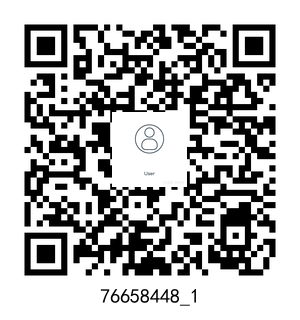
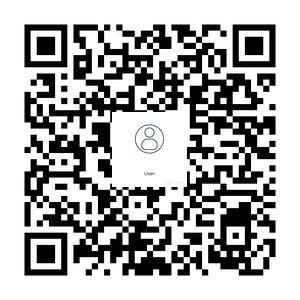
优化生成二维码方法

diff --git a/qrCodeGeneration/qrCodeGeneration_demo.py b/qrCodeGeneration/qrCodeGeneration_demo.py
@@ -45,48 +45,32 @@ def generate_qr_code(fileName, qr_size):
             img = img.resize((qr_size, qr_size), Image.Resampling.LANCZOS)
 
             # 获取文件的目录
-            directory = os.path.join(QRCodes_path, str(item['店铺ID']))
+            directory = os.path.join(QRCodes_path, sheet_name)
 
             # 如果目录不存在，则创建目录
             if not os.path.exists(directory):
                 os.makedirs(directory)
 
             # 将二维码图像保存到指定路径
-            file_path_png = os.path.join(directory, f"{item['店铺ID']}_{item['桌台名称']}.png")
+            file_path_png = os.path.join(directory, f"{item['文字标签']}.png")
             img.save(file_path_png)
             print(f"二维码已保存到 {file_path_png}")
 
 
 # 带有logo的二维码
-def add_logo_to_qr(img, logo_path):
-    logo = Image.open(logo_path)
+def add_logo_to_qr(qr_img, logo_path):
+    """
+    向二维码图像中添加Logo
+    :param qr_img: 二维码图像对象
+    :param logo_path: Logo文件路径
+    """
+    logo = Image.open(logo_path).convert("RGBA")
+    logo_size = qr_img.size[0] // 4
+    logo = logo.resize((logo_size, logo_size), Image.Resampling.LANCZOS)
 
-    # 将Logo剪裁为圆形
-    # mask = Image.new('L', logo.size, 0)
-    # draw = ImageDraw.Draw(mask)
-    # draw.ellipse((0, 0, logo.size[0], logo.size[1]), fill=255)
-
-    # 确保 logo 是 RGBA 模式
-    logo = logo.convert("RGBA")
-    # mask = mask.convert("L")
-
-    # 调整Logo大小
-    # logo_width, logo_height = logo.size
-    # qr_width, qr_height = img.size
-    # factor = 4  # 控制Logo大小的比例因子
-    # size = (qr_width // factor, qr_height // factor)
-    # logo = logo.resize(size, Image.Resampling.LANCZOS)
-    # mask = mask.resize(size, Image.Resampling.LANCZOS)
-    # 调整Logo大小
-    logo_width, logo_height = logo.size
-    qr_width, qr_height = img.size
-    factor = 4  # 控制Logo大小的比例因子
-    size = (qr_width // factor, qr_height // factor)
-    logo = logo.resize(size, Image.Resampling.LANCZOS)
-
-    # 将Logo粘贴到二维码中心
-    pos = ((qr_width - logo.size[0]) // 2, (qr_height - logo.size[1]) // 2)
-    img.paste(logo, pos, logo)
+    # 计算Logo在二维码图像中的位置
+    pos = ((qr_img.size[0] - logo_size) // 2, (qr_img.size[1] - logo_size) // 2)
+    qr_img.paste(logo, pos, logo)
 
 
 def generate_qr_code_with_logo(data, logo_path, save_path, qr_size):
@@ -115,11 +99,11 @@ def generate_qr_code_with_logo(data, logo_path, save_path, qr_size):
     print(f"二维码已保存到 {save_path}")
 
 
-def generate_qr_code_with_logo_text(data, logo_path, save_path, qr_size, text, font_name):
+def generate_qr_code_with_logo_text(data, save_path, qr_size, text, font_name, logo_path=None):
     """
     生成带有Logo和文本的二维码
     :param data: 二维码数据
-    :param logo_path: Logo文件路径
+    :param logo_path: Logo文件路径，可选
     :param save_path: 保存二维码文件的路径
     :param qr_size: 二维码图像大小
     :param text: 要添加的文本
@@ -136,14 +120,16 @@ def generate_qr_code_with_logo_text(data, logo_path, save_path, qr_size, text, f
     # 添加数据到二维码对象
     qr.add_data(data)
     qr.make(fit=True)
+
     # 生成二维码图像
     qr_img = qr.make_image(fill_color="black", back_color="white").convert('RGBA')
 
     # 调整二维码图像大小
     qr_img = qr_img.resize((qr_size, qr_size), Image.Resampling.LANCZOS)
 
-    # 添加Logo到二维码
-    add_logo_to_qr(qr_img, logo_path)
+    # 如果提供了Logo路径，则添加Logo到二维码
+    if logo_path:
+        add_logo_to_qr(qr_img, logo_path)
 
     # 创建一个新的图像，包含二维码和文本
     total_height = qr_size + 20  # 给文本留出空间，20像素可以根据需要调整
@@ -154,8 +140,8 @@ def generate_qr_code_with_logo_text(data, logo_path, save_path, qr_size, text, f
     draw = ImageDraw.Draw(img)
 
     # 20 字体大小
-    font = ImageFont.truetype(os.path.join(fonts_path, font_name), 20)
-
+    font_path = os.path.join(fonts_path, font_name)
+    font = ImageFont.truetype(font_path, 20)
     text_bbox = draw.textbbox((0, 0), text, font=font)
     text_width = text_bbox[2] - text_bbox[0]
     text_height = text_bbox[3] - text_bbox[1]
@@ -181,17 +167,17 @@ def generate_qr_codes(fileName, qr_size, logo_name):
         data_list = MyExcel().read_data(file_path, sheet_name)
         for item in data_list:
             data = item['二维码链接']
-            directory = os.path.join(QRCodes_path, str(item['店铺ID']))
+            directory = os.path.join(QRCodes_path, sheet_name)
             # 如果目录不存在，则创建目录
             if not os.path.exists(directory):
                 os.makedirs(directory)
 
-            save_path = os.path.join(directory, f"{item['店铺ID']}_{item['桌台名称']}.png")
+            save_path = os.path.join(directory, f"{item['文字标签']}.png")
             generate_qr_code_with_logo(data, logo_path, save_path, qr_size)
 
 
 # 带有logo和文本的二维码
-def generate_qr_codes_text(fileName, qr_size, logo_name, font_name):
+def generate_qr_codes_text(fileName, qr_size, logo_name: str = None, font_name: str = None):
     """
     生成带有Logo和文本的二维码
     :param fileName: Excel文件名
@@ -204,40 +190,51 @@ def generate_qr_codes_text(fileName, qr_size, logo_name, font_name):
 
     # 调用get_sheet_names函数获取Excel文件中所有工作表的名称
     sheet_names = MyExcel().get_sheet_names(file_path)
-    logo_path = os.path.join(logos_path, logo_name)  # 上传的Logo文件路径
+    # 上传的Logo文件路径
+    logo_path = os.path.join(logos_path, logo_name) if logo_name else None
 
     for sheet_name in sheet_names:
         data_list = MyExcel().read_data(file_path, sheet_name)
         for item in data_list:
             data = item['二维码链接']
-            text = item['二维码备注']
+            text = item['文字标签']
             directory = os.path.join(QRCodes_path, sheet_name)
 
             # 如果目录不存在，则创建目录
             if not os.path.exists(directory):
                 os.makedirs(directory)
 
-            save_path = os.path.join(directory, f"{item['二维码备注']}.png")
-            generate_qr_code_with_logo_text(data, logo_path, save_path, qr_size, text, font_name)
+            save_path = os.path.join(directory, f"{item['文字标签']}.png")
+            if logo_name is None:
+                generate_qr_code_with_logo_text(data, save_path, qr_size, text, font_name)
+            else:
+                generate_qr_code_with_logo_text(data, save_path, qr_size, text, font_name, logo_path)
 
 
-def qr_code_generation(qrCodeStatus, fileName, qr_size, logo_name=None, font_name=None):
+def qr_code_generation(qrCodeStatus: int, fileName: str, qr_size: int, logo_name: str = None, font_name: str = None):
     """
-    二维码生成
-    :param qrCodeStatus: 二维码生成方式
-    :param fileName: Excel文件名
-    :param qr_size: 二维码图像大小
-    :param logo_name: Logo文件名
-    :param font_name: 文本字体名称
+    生成二维码
+    :param qrCodeStatus: 生成方式
+    :param fileName: Excel 文件名
+    :param qr_size: 二维码大小
+    :param logo_name: logo 文件名
+    :param font_name: 文字字体
     """
+
+    if qrCodeStatus not in [1, 2, 3]:
+        print("请选择正确的二维码生成方式")
+        return
+
     if qrCodeStatus == 1:
         generate_qr_codes(fileName, qr_size, logo_name)
     elif qrCodeStatus == 2:
-        generate_qr_codes_text(fileName, qr_size, logo_name, font_name)
+        generate_qr_codes_text(fileName, qr_size, font_name, logo_name)
     elif qrCodeStatus == 3:
         generate_qr_code(fileName, qr_size)
-    else:
-        print("请选择正确的二维码生成方式")
 
 
-qr_code_generation(2, 'shop_01.xlsx', 300, '1.png', 'simhei.ttf')
+# Example usage
+# qr_code_generation(1, 'shop_02.xlsx', 300, 'simhei.ttf', '1.png')
+qr_code_generation(1, 'shop_02.xlsx', 300, '1.png')
+
+# qr_code_generation(2, 'shop_02.xlsx', 300, 'simhei.ttf')

diff --git a/common/my_execl.py b/common/my_execl.py
@@ -72,7 +72,7 @@ class MyExcel:
 
 if __name__ == '__main__':
     # openxls_create()
-    # data_path = os.path.join(BasicData_path, 'shop_01.xlsx')
+    # data_path = os.path.join(BasicData_path, 'shop_02.xlsx')
     #
     # basedir = os.path.dirname(os.path.dirname(os.path.abspath(__file__)))
     # me = MyExcel().read_data(data_path, "76658448")
